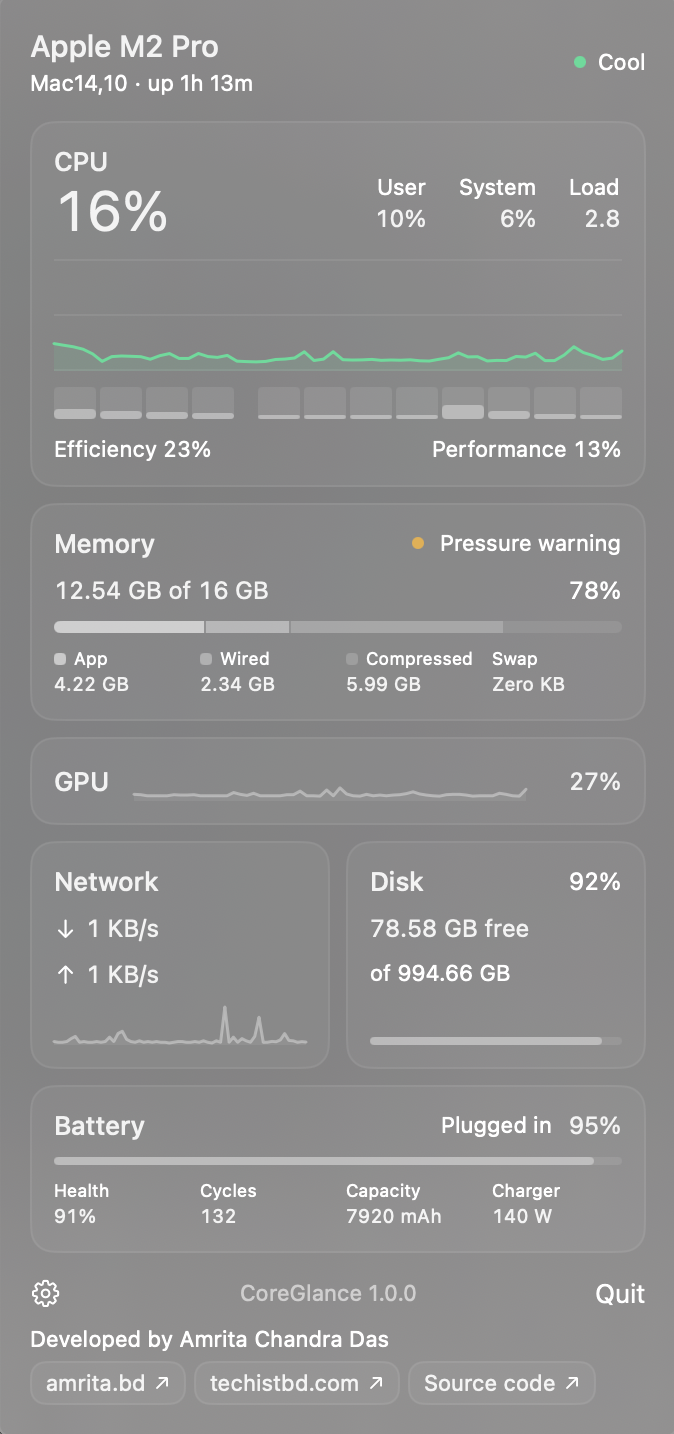
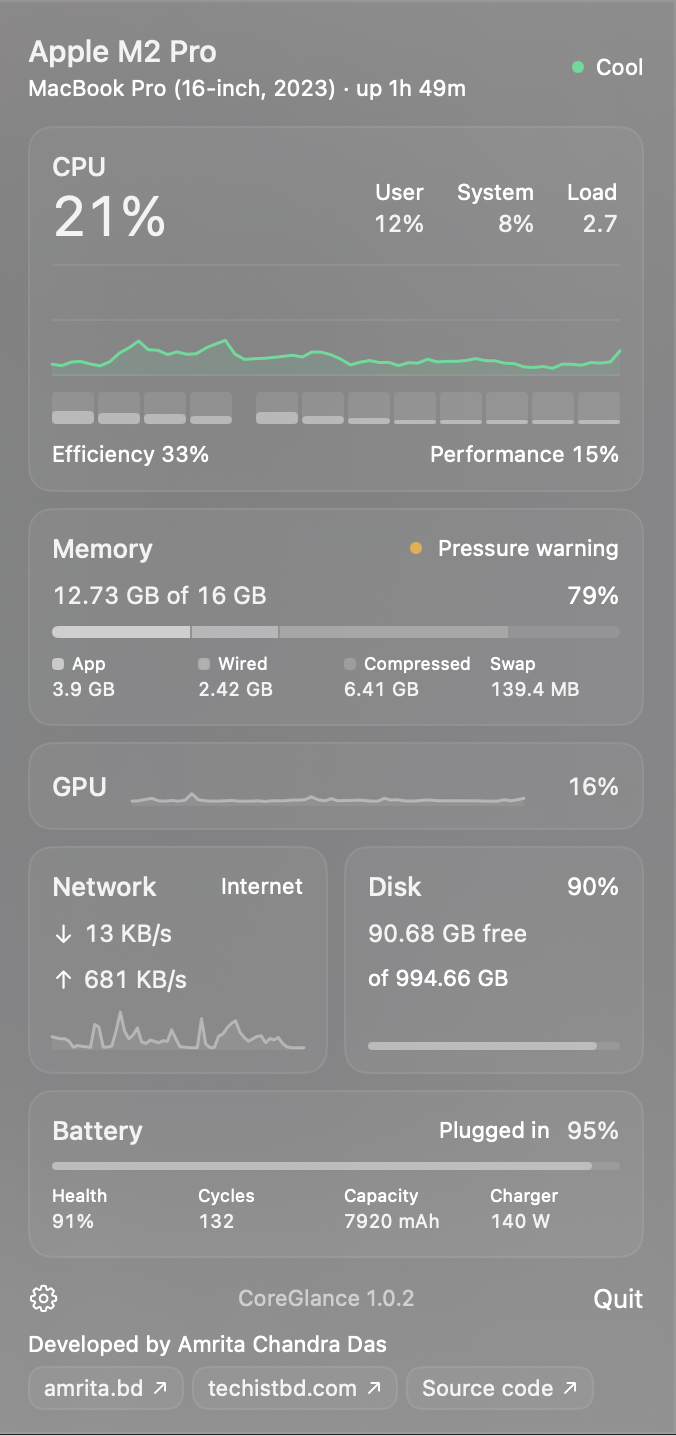
Measure network speed on the internet interface only; show the Mac's name
Network speed used to add up every interface named en*, which includes
Thunderbolt ports and unused Ethernet adapters. It now follows the
default route (Wi-Fi, Ethernet, tethering or a full VPN), rechecks it
every few seconds, and reads zero when offline.

The popup header shows the Mac's everyday name, such as
"MacBook Pro (16-inch, 2023)", instead of the model code.

Installing no longer leaves a second app copy in the build folder.
Bumps the version to 1.0.2 and refreshes the README screenshot.

diff --git a/Sources/CoreGlance/Sensors.swift b/Sources/CoreGlance/Sensors.swift
@@ -2,6 +2,7 @@ import Foundation
 import Darwin
 import IOKit
 import IOKit.ps
+import SystemConfiguration
 
 // Small, stateless readers built on public system APIs.
 // Each returns nil when the data is not available, so the UI can say "n/a"
@@ -220,10 +221,23 @@ enum Sensors {
         return (Int64(total), free)
     }
 
-    // MARK: Network (total bytes on physical en* interfaces: Wi-Fi, Ethernet, tethering)
+    // MARK: Network
 
+    /// The interface that carries the internet connection (the default route), e.g. "en0" for Wi-Fi
+    /// or "utun4" for a full VPN. nil when the Mac is offline.
+    static func internetInterface() -> String? {
+        for key in ["State:/Network/Global/IPv4", "State:/Network/Global/IPv6"] {
+            if let info = SCDynamicStoreCopyValue(nil, key as CFString) as? [String: Any],
+               let name = info["PrimaryInterface"] as? String, !name.isEmpty {
+                return name
+            }
+        }
+        return nil
+    }
+
+    /// Total bytes received and sent on one interface, or nil if it does not exist.
     /// Uses the 64-bit interface counters. The simpler getifaddrs() ones are 32-bit and wrap every 4 GB.
-    static func networkBytes() -> (rx: UInt64, tx: UInt64)? {
+    static func networkBytes(interface: String) -> (rx: UInt64, tx: UInt64)? {
         var mib: [Int32] = [CTL_NET, PF_ROUTE, 0, 0, NET_RT_IFLIST2, 0]
         var len = 0
         guard sysctl(&mib, 6, nil, &len, nil, 0) == 0, len > 0 else { return nil }
@@ -231,6 +245,7 @@ enum Sensors {
         guard sysctl(&mib, 6, &buf, &len, nil, 0) == 0 else { return nil }
 
         var rx: UInt64 = 0, tx: UInt64 = 0
+        var found = false
         var name = [CChar](repeating: 0, count: Int(IF_NAMESIZE))
         buf.withUnsafeBytes { raw in
             var off = 0
@@ -240,16 +255,16 @@ enum Sensors {
                 guard msgLen > 0 else { break }
                 if Int32(hdr.ifm_type) == RTM_IFINFO2, off + MemoryLayout<if_msghdr2>.size <= len {
                     let h2 = raw.loadUnaligned(fromByteOffset: off, as: if_msghdr2.self)
-                    if if_indextoname(UInt32(h2.ifm_index), &name) != nil,
-                       name[0] == CChar(UInt8(ascii: "e")), name[1] == CChar(UInt8(ascii: "n")) {
+                    if if_indextoname(UInt32(h2.ifm_index), &name) != nil, String(cString: name) == interface {
                         rx += h2.ifm_data.ifi_ibytes
                         tx += h2.ifm_data.ifi_obytes
+                        found = true
                     }
                 }
                 off += msgLen
             }
         }
-        return (rx, tx)
+        return found ? (rx, tx) : nil
     }
 
     // MARK: Processes
@@ -313,6 +328,18 @@ enum Sensors {
         var buf = [CChar](repeating: 0, count: size)
         guard sysctlbyname(name, &buf, &size, nil, 0) == 0 else { return nil }
         return String(cString: buf)
+    }
+
+    /// The Mac's everyday name, e.g. "MacBook Pro (16-inch, 2023)". nil if the Mac does not report one.
+    static func productName() -> String? {
+        let entry = IORegistryEntryFromPath(kIOMainPortDefault, "IODeviceTree:/product")
+        guard entry != 0 else { return nil }
+        defer { IOObjectRelease(entry) }
+        guard let data = IORegistryEntryCreateCFProperty(entry, "product-name" as CFString, kCFAllocatorDefault, 0)?
+            .takeRetainedValue() as? Data else { return nil }
+        // The value is a C string with a trailing zero byte.
+        let name = String(decoding: data.prefix { $0 != 0 }, as: UTF8.self).trimmingCharacters(in: .whitespacesAndNewlines)
+        return name.isEmpty ? nil : name
     }
 
     static func loadAverage() -> [Double] {

diff --git a/Sources/CoreGlance/Monitor.swift b/Sources/CoreGlance/Monitor.swift
@@ -50,7 +50,8 @@ final class Monitor: ObservableObject {
 
     let bar = BarModel()
     let chip = Sensors.sysctlString("machdep.cpu.brand_string") ?? "Unknown chip"
-    let model = Sensors.sysctlString("hw.model") ?? "Mac"
+    /// Friendly name when the Mac reports one, otherwise Apple's model code (e.g. "Mac14,10").
+    let model = Sensors.productName() ?? Sensors.sysctlString("hw.model") ?? "Mac"
     let osVersion = ProcessInfo.processInfo.operatingSystemVersionString
     /// true = performance core, per logical CPU. Empty if the Mac does not report core types.
     let performanceCores = Sensors.performanceCoreFlags()
@@ -71,6 +72,8 @@ final class Monitor: ObservableObject {
 
     private var prevTicks: [[UInt32]]?
     private var prevNet: (rx: UInt64, tx: UInt64, time: Date)?
+    private(set) var netInterface: String?   // interface carrying the internet connection
+    private var lastInterfaceCheck = Date.distantPast
     private var prevProc: [Int32: UInt64] = [:]
     private var prevProcTime = Date()
     private var nameCache: [Int32: String] = [:]
@@ -158,8 +161,23 @@ final class Monitor: ObservableObject {
     }
 
     private func sampleNetwork() {
-        guard let n = Sensors.networkBytes() else { return }
         let now = Date()
+        // Which interface is the internet connection can change (Wi-Fi to Ethernet, VPN on or off),
+        // so look it up again every few seconds.
+        if now.timeIntervalSince(lastInterfaceCheck) >= 5 {
+            lastInterfaceCheck = now
+            let current = Sensors.internetInterface()
+            if current != netInterface {
+                netInterface = current
+                prevNet = nil   // counters of different interfaces cannot be compared
+            }
+        }
+        guard let name = netInterface, let n = Sensors.networkBytes(interface: name) else {
+            // Offline: show zero instead of the last measured speed.
+            downSpeed = 0; upSpeed = 0; prevNet = nil
+            push(0, &downHistory)
+            return
+        }
         if let p = prevNet {
             let dt = now.timeIntervalSince(p.time)
             downSpeed = Calc.rate(prev: p.rx, cur: n.rx, seconds: dt)

diff --git a/Tests/CoreGlanceTests/CoreGlanceTests.swift b/Tests/CoreGlanceTests/CoreGlanceTests.swift
@@ -123,10 +123,20 @@ final class SensorTests: XCTestCase {
     }
 
     func testNetworkCountersNeverGoBackwards() throws {
-        let a = try XCTUnwrap(Sensors.networkBytes())
-        let b = try XCTUnwrap(Sensors.networkBytes())
+        // A machine with no network (some CI runners) has no internet interface: nothing to check.
+        guard let name = Sensors.internetInterface() else { return }
+        let a = try XCTUnwrap(Sensors.networkBytes(interface: name))
+        let b = try XCTUnwrap(Sensors.networkBytes(interface: name))
         XCTAssertGreaterThanOrEqual(b.rx, a.rx)
         XCTAssertGreaterThanOrEqual(b.tx, a.tx)
+    }
+
+    func testUnknownInterfaceGivesNil() {
+        XCTAssertNil(Sensors.networkBytes(interface: "nosuch99"))
+    }
+
+    func testLoopbackIsNeverTheInternetInterface() {
+        XCTAssertNotEqual(Sensors.internetInterface(), "lo0")
     }
 
     func testOptionalSensorsDoNotCrash() {
@@ -135,6 +145,14 @@ final class SensorTests: XCTestCase {
         _ = Sensors.battery()
         let flags = Sensors.performanceCoreFlags()
         XCTAssertTrue(flags.isEmpty || flags.count == ProcessInfo.processInfo.processorCount)
+    }
+
+    func testProductNameIsCleanWhenPresent() {
+        // Not every Mac (or CI runner) reports one, but when it does it must be plain text.
+        if let name = Sensors.productName() {
+            XCTAssertFalse(name.isEmpty)
+            XCTAssertFalse(name.contains("\0"))
+        }
     }
 
     func testProcessesIncludeThisOne() {

diff --git a/Sources/CoreGlance/Views.swift b/Sources/CoreGlance/Views.swift
@@ -105,9 +105,10 @@ struct PopupView: View {
                 Text(monitor.chip).font(.system(size: 15, weight: .medium))
                 Text("\(monitor.model) · up \(Fmt.uptime(ProcessInfo.processInfo.systemUptime))")
                     .font(Theme.label).foregroundStyle(.secondary)
+                    .lineLimit(1).minimumScaleFactor(0.8)
             }
             Spacer()
-            ThermalStatus(state: monitor.thermal)
+            ThermalStatus(state: monitor.thermal).fixedSize()
         }
     }
 
@@ -209,7 +210,14 @@ struct PopupView: View {
 
     private var networkCard: some View {
         Card(fillHeight: true) {
-            Text("Network").font(Theme.title)
+            HStack {
+                Text("Network").font(Theme.title)
+                Spacer()
+                Text(monitor.netInterface == nil ? "Offline" : "Internet")
+                    .font(Theme.label).foregroundStyle(.secondary)
+                    .help(monitor.netInterface.map { "Measured on \($0), the interface that carries your internet connection" }
+                          ?? "No internet connection")
+            }
             HStack(spacing: 4) {
                 Image(systemName: "arrow.down").font(.system(size: 10, weight: .medium)).foregroundStyle(.secondary)
                     .frame(width: 12)

diff --git a/README.md b/README.md
@@ -15,7 +15,7 @@ A lightweight menu bar system monitor for Mac. It shows your Mac's health at a g
 | **CPU** | Total, user, system, idle, load average, a live graph, and per-core bars split into efficiency and performance cores |
 | **Memory** | Used / total, app, wired, compressed, swap, and the macOS memory pressure level (Normal / Warning / Critical) |
 | **GPU** | Utilization with a live graph |
-| **Network** | Download and upload speed, in bytes or bits |
+| **Network** | Download and upload speed of your internet connection, in bytes or bits |
 | **Disk** | Free and total space on the startup disk, with a low-space warning |
 | **Battery** | Charge, health (current vs design capacity), cycle count, time remaining, charger wattage |
 | **Thermal** | The macOS thermal state (Cool / Warm / Hot / Critical) |
@@ -71,6 +71,7 @@ Click the gear icon at the bottom of the popup to open the settings page:
 
 - **No exact temperatures or fan speeds.** On Apple Silicon these are only available through private, undocumented APIs. CoreGlance shows the official macOS thermal state instead.
 - **Top processes lists your own processes only.** System processes such as WindowServer need administrator rights, which CoreGlance never asks for.
+- **Network speed is measured on the interface that carries your internet connection** (Wi-Fi, Ethernet, tethering or a full VPN). Other interfaces are ignored, and it reads zero when offline. Transfers to devices on the same local network use that same interface, so they are included.
 - **Not on the Mac App Store.** The App Store sandbox blocks the process list.
 
 ## Development
